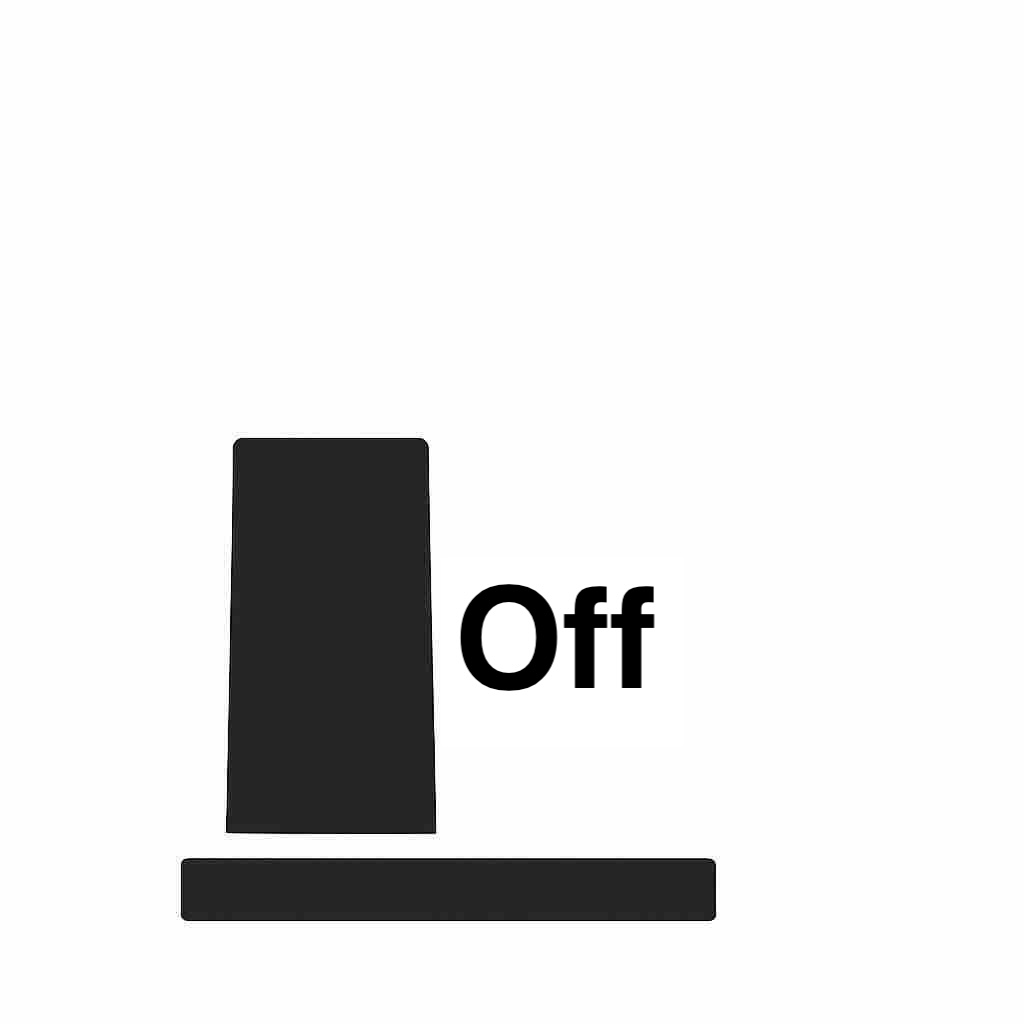
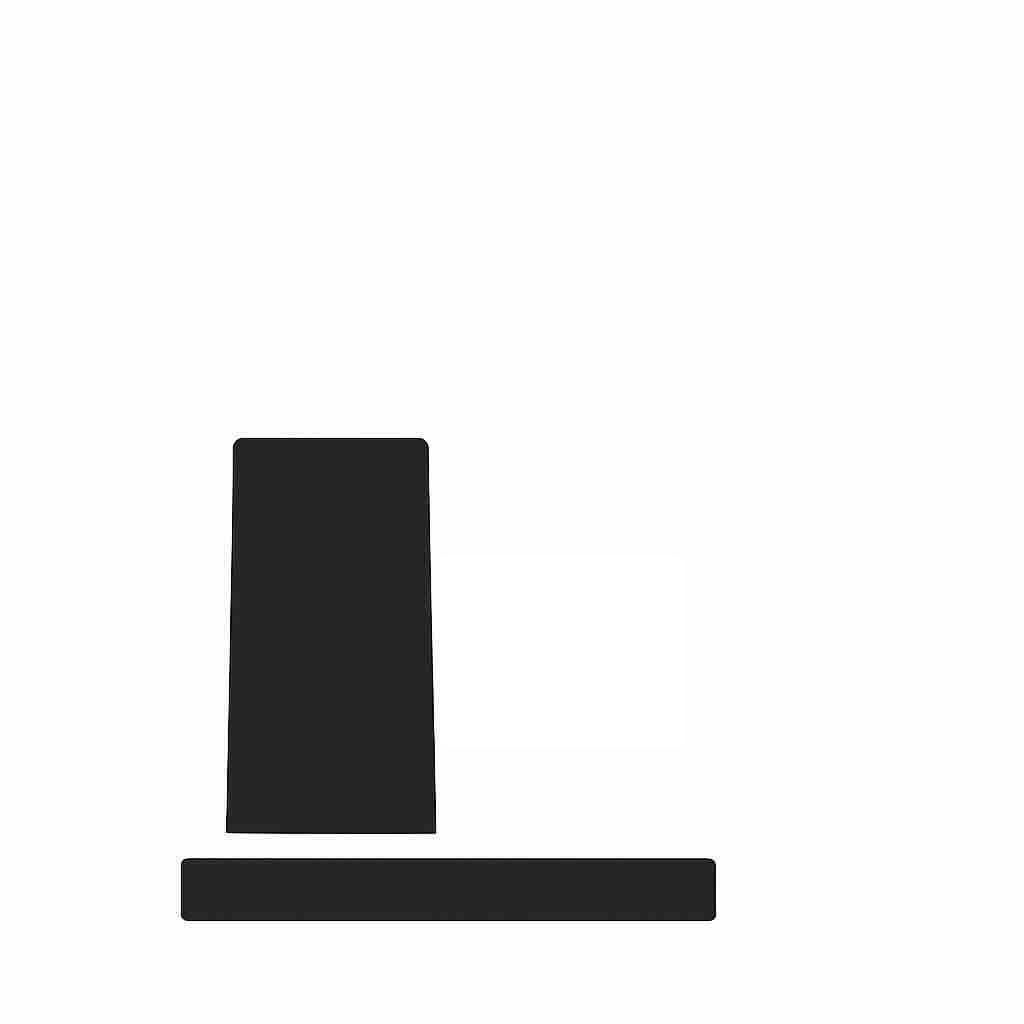
Fix: add Sp Limit field in `info_box` and update initialization logic

Changed region(s): [[0.4375, 0.5625, 0.6562, 0.6875]]

diff --git a/src/pytrain/gui/controller/controller_view.py b/src/pytrain/gui/controller/controller_view.py
@@ -61,7 +61,8 @@ class ControllerView:
         self._updating_from_state = False
         self._last_state = self._last_throttle_state = None
         self._last_engine_type = None
-        self._info_smoke = self._info_momentum = self._info_brake = self._info_effort = self._info_rpm = None
+        self._info_smoke = self._info_momentum = self._info_brake = None
+        self._info_effort = self._info_rpm = self._info_limit = None
 
     @contextmanager
     def __updating(self) -> Iterator[None]:
@@ -467,6 +468,14 @@ class ControllerView:
             host=host,
             parent=info_box,
             title="RPM",
+            grid=[4, 0],
+            max_cols=6,
+        )
+
+        self._info_limit = StateInfoOverlay.make_field(
+            host=host,
+            parent=info_box,
+            title="Sp Limit",
             grid=[4, 0],
             max_cols=6,
         )